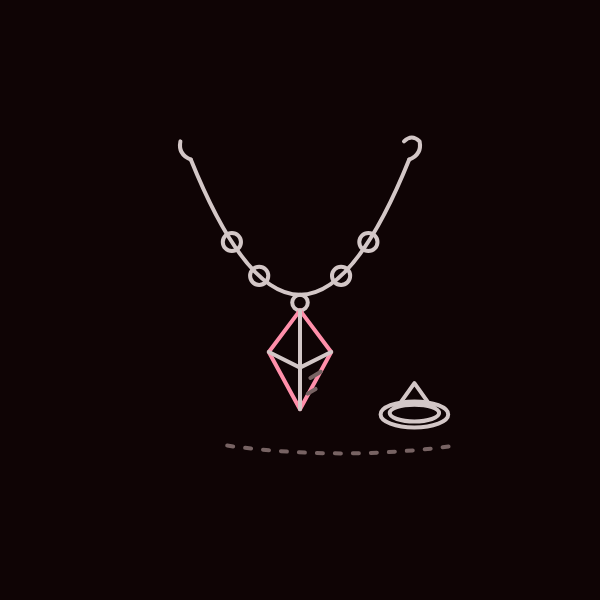
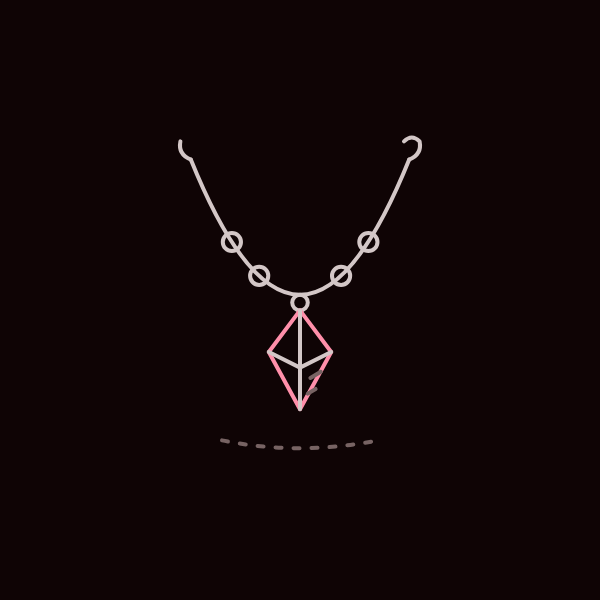
fix(art): move Garlan's stage to the chapter that tells it and add Boros's

Changed region(s): [[0.36, 0.72, 0.66, 0.78], [0.63, 0.63, 0.75, 0.75]]

diff --git a/src/data/series/game-of-thrones/art/court.ts b/src/data/series/game-of-thrones/art/court.ts
@@ -510,8 +510,7 @@ const WILDFIRE_JAR: Stroke[] = [
 
 /**
  * Lollys Stokeworth: a jewelled necklace laid out in its curve, a stone set
- * here and there along the chain and a pendant at its foot, and a ring
- * beside it: the jewels her maid steals from her in Tyrion X (chapter 118),
+ * here and there along the chain and a pendant at its foot: the jewels her maid steals from her in Tyrion X (chapter 118),
  * which opens her household to Shae. The books' alone. The accent is the
  * pendant.
  */
@@ -529,9 +528,7 @@ const JEWELS: Stroke[] = [
   { d: 'M80 104 L68 120 L80 142 L92 120 Z', role: 'accent' },
   { d: 'M68 120 L80 126 L92 120 M80 104 V126 V142', role: 'soft' },
   { d: 'M84 130 l4 -2.4 M83 136 l3 -1.8', role: 'ambient' },
-  { d: `${ellipse(124, 144, 13, 5)} ${ellipse(124, 143.5, 9.5, 3.2)}` },
-  { d: 'M119 139 L124 132 L129 139', role: 'soft' },
-  shadow(96, 156, 44),
+  shadow(80, 154, 30),
 ]
 
 /**
@@ -995,14 +992,14 @@ export const courtRedrawn: Redrawings = {
     },
   ],
   'garlan-tyrell': [
-    // Renly's antlered helm with the rose shield set by it: Garlan rode into
-    // the battle in Renly's armour, the ghost that turned Renly's old
-    // bannermen from Stannis, as Tyrion XV of A Clash of Kings (chapter 141)
-    // tells. The books' alone;
-    // episode 20, his record's, orders it.
+    // Renly's antlered helm with the rose shield set by it: Loras tells Jaime
+    // that Garlan wore Renly's armour on the Blackwater, the ghost the
+    // smallfolk tell of, in Jaime VIII of A Storm of Swords (chapter 211). The
+    // books' alone; episode 36, Tyrion's trial, the nearest point the show
+    // reaches, orders it.
     {
-      episode: 20,
-      chapter: 141,
+      episode: 36,
+      chapter: 211,
       value: [
         ...moved(ANTLERED_HELM, 'translate(-22 0)'),
         ...moved(
@@ -1012,5 +1009,29 @@ export const courtRedrawn: Redrawings = {
         shadow(80, 156, 60),
       ],
     },
+  ],
+  'boros-blount': [
+    // His cloak brooch dropped on the ground by his sword, the white cloak
+    // gone: Joffrey strips him of it for yielding Tommen on the Rosby road,
+    // in Tyrion XI of A Clash of Kings (chapter 123). The books' alone; the
+    // show never strips him, so episode 19, his record's, orders it.
+    {
+      episode: 19,
+      chapter: 123,
+      source: 'chapter',
+      value: [
+        { d: ellipse(80, 112, 20, 8) },
+        { d: 'M60 112 V116 Q62 124 80 125 Q98 124 100 116 V112', role: 'soft' },
+        { d: ellipse(80, 112, 8, 3), role: 'accent' },
+        { d: 'M92 119 l4 -2 M84 121 l4 -2', role: 'ambient' },
+        ...LYING_SWORD,
+        shadow(80, 154, 62),
+      ],
+    },
+    // The white cloak on his shoulder again: Tywin gives him back his place
+    // in the Kingsguard, in the Hound's, in Tyrion II of A Storm of Swords
+    // (chapter 156). The books' alone; episode 21, the show's first after
+    // the battle, orders it.
+    { episode: 21, chapter: 156, source: 'chapter', value: SHOULDER_CLOAK },
   ],
 }

diff --git a/src/data/series/game-of-thrones/records/season-2.ts b/src/data/series/game-of-thrones/records/season-2.ts
@@ -1230,9 +1230,9 @@ export const season2: ThronesSaga = {
         it: 'Tyrion Lannister va da lei al bordello per coprire le sue visite a Shae. La regina la fa prendere, credendola la sua amante.',
         en: 'Tyrion Lannister visits her at the brothel to cover his visits to Shae. The queen has her seized, taking her for his lover.',
       },
-      // Tywin has her flogged and sent away while Tyrion recovers from the
-      // battle; whether A Clash of Kings tells it is unconfirmed, so her
-      // release waits for the next stage.
+      // Tywin has her whipped and thrown out of the Red Keep, as Bronn tells
+      // Tyrion in Tyrion I of A Storm of Swords (site chapter 148); her
+      // release is left to a status issue of a later stage.
       status: [
         { episode: 18, chapter: 128, source: 'chapter', value: 'captured' },
       ],
@@ -1248,8 +1248,8 @@ export const season2: ThronesSaga = {
     'garlan-tyrell': {
       role: { it: 'Cavaliere di Casa Tyrell', en: 'Knight of House Tyrell' },
       log: {
-        it: 'Entra nella battaglia delle Acque Nere con l’armatura di Renly Baratheon. A corte, dopo la vittoria, chiede al re di sposare sua sorella Margaery.',
-        en: 'He rides into the battle on the Blackwater wearing Renly Baratheon’s armour. At court, after the victory, he asks the king to marry his sister Margaery.',
+        it: 'A corte, dopo la vittoria sulle Acque Nere, chiede al re di sposare sua sorella Margaery.',
+        en: 'At court, after the victory on the Blackwater, he asks the king to marry his sister Margaery.',
       },
       status: [
         { episode: 20, chapter: 139, source: 'chapter', value: 'alive' },

diff --git a/src/server/archive/thronesSeason2.test.ts b/src/server/archive/thronesSeason2.test.ts
@@ -179,7 +179,7 @@ const STAGES: {
   stage?: number
 }[] = [
   { id: 'jacelyn-bywater', episode: 20, chapter: 148, source: 'chapter' },
-  { id: 'garlan-tyrell', episode: 20, chapter: 141, source: 'chapter' },
+  { id: 'garlan-tyrell', episode: 36, chapter: 211, source: 'chapter' },
   { id: 'osmund-kettleblack', episode: 35, chapter: 212, source: 'chapter' },
 ]
 
@@ -374,6 +374,19 @@ describe.each(
     })
   },
 )
+
+describe('Garlan Tyrell’s armour', () => {
+  it('stays out of his page before the book that tells it', () => {
+    // Loras tells Jaime who wore Renly's armour at chapter 211 (#1470); the
+    // page names the armour nowhere before it.
+    const page = JSON.stringify(
+      characterPage('garlan-tyrell', reader('chapter', 210)) ?? null,
+    )
+
+    expect(page).toContain('Garlan')
+    expect(page).not.toMatch(/Renly.s armour/u)
+  })
+})
 
 describe('the stages one medium alone tells', () => {
   it.each(STAGES.filter(({ source }) => source !== undefined))(

diff --git a/src/server/archive/thronesSeason1.test.ts b/src/server/archive/thronesSeason1.test.ts
@@ -1555,6 +1555,16 @@ const STAGES: {
     stage: 1,
   },
   { id: 'robar-royce', episode: 15, chapter: 110, source: 'chapter' },
+  // Boros Blount's white cloak taken and given back, the books' alone
+  // (#1470).
+  { id: 'boros-blount', episode: 19, chapter: 123, source: 'chapter' },
+  {
+    id: 'boros-blount',
+    episode: 21,
+    chapter: 156,
+    source: 'chapter',
+    stage: 1,
+  },
   // The southern characters redrawn from the drawing audit (#1287).
   { id: 'ros', episode: 20, chapter: 143, source: 'episode' },
   { id: 'ros', episode: 26, chapter: 175, source: 'episode', stage: 1 },

diff --git a/docs/content-provenance/game-of-thrones-season-2-characters.md b/docs/content-provenance/game-of-thrones-season-2-characters.md
@@ -40,15 +40,15 @@ records stepped.
 Gates as episode / site chapter. `source` records give the other number only to
 order them.
 
-| Record               | Show                                                                                                                    | Books                                                                                                                                                                             |
-| -------------------- | ----------------------------------------------------------------------------------------------------------------------- | --------------------------------------------------------------------------------------------------------------------------------------------------------------------------------- |
-| `daisy` (show only)  | 11, "The North Remembers": Ros shows her the brothel, "We do things differently here, Daisy" (quoted on the Daisy page) | none: "no character of this name"; 77 orders her                                                                                                                                  |
-| `jacelyn-bywater`    | none: the show gives the City Watch to Bronn (Bronn page); 12 orders him                                                | 82, Tyrion II: Tyrion names him commander of the City Watch when he sends Janos Slynt to the Wall (Ice and Fire Wiki; "The Night Lands" puts the dismissal in Tyrion II)          |
-| `hallyne`            | none: "The Ghost of Harrenhal" and "Blackwater" name him only in narration and the credits; 15 orders him               | 94, Tyrion V: Tyrion inspects the guild's wildfire with him ("The Ghost of Harrenhal", "In the books"; Hallyne page, ACOK 20)                                                     |
-| `lollys-stokeworth`  | none in the stage; 13 orders her                                                                                        | 118, Tyrion X: Varys proposes Shae for her household, after her maid is caught stealing ("What Is Dead May Never Die", "In the books"; Ice and Fire Wiki, Tanda Stokeworth)       |
-| `osmund-kettleblack` | none: an unnamed Kingsguard of seasons 5 and 8; 18 orders him                                                           | 123, Tyrion XI: the queen names him and Balon Swann to the Kingsguard (Balon Swann page, ACOK 49; Ice and Fire Wiki, Tanda Stokeworth); safe later pin                            |
-| `alayaya`            | none: the show gives her scenes to Ros; 18 orders her                                                                   | 128, Tyrion XII: the queen holds her captive, taking her for Tyrion's lover ("The Prince of Winterfell", "In the books"; Ice and Fire Wiki); safe later pin                       |
-| `garlan-tyrell`      | none: no appearance; 20 orders him                                                                                      | 139, Sansa VIII: at the court of rewards he is the knight in Renly's armour and asks the king to wed Margaery ("Valar Morghulis", "In the books"; Garlan page; Ice and Fire Wiki) |
+| Record               | Show                                                                                                                    | Books                                                                                                                                                                                                                        |
+| -------------------- | ----------------------------------------------------------------------------------------------------------------------- | ---------------------------------------------------------------------------------------------------------------------------------------------------------------------------------------------------------------------------- |
+| `daisy` (show only)  | 11, "The North Remembers": Ros shows her the brothel, "We do things differently here, Daisy" (quoted on the Daisy page) | none: "no character of this name"; 77 orders her                                                                                                                                                                             |
+| `jacelyn-bywater`    | none: the show gives the City Watch to Bronn (Bronn page); 12 orders him                                                | 82, Tyrion II: Tyrion names him commander of the City Watch when he sends Janos Slynt to the Wall (Ice and Fire Wiki; "The Night Lands" puts the dismissal in Tyrion II)                                                     |
+| `hallyne`            | none: "The Ghost of Harrenhal" and "Blackwater" name him only in narration and the credits; 15 orders him               | 94, Tyrion V: Tyrion inspects the guild's wildfire with him ("The Ghost of Harrenhal", "In the books"; Hallyne page, ACOK 20)                                                                                                |
+| `lollys-stokeworth`  | none in the stage; 13 orders her                                                                                        | 118, Tyrion X: Varys proposes Shae for her household, after her maid is caught stealing ("What Is Dead May Never Die", "In the books"; Ice and Fire Wiki, Tanda Stokeworth)                                                  |
+| `osmund-kettleblack` | none: an unnamed Kingsguard of seasons 5 and 8; 18 orders him                                                           | 123, Tyrion XI: the queen names him and Balon Swann to the Kingsguard (Balon Swann page, ACOK 49; Ice and Fire Wiki, Tanda Stokeworth); safe later pin                                                                       |
+| `alayaya`            | none: the show gives her scenes to Ros; 18 orders her                                                                   | 128, Tyrion XII: the queen holds her captive, taking her for Tyrion's lover ("The Prince of Winterfell", "In the books"; Ice and Fire Wiki); safe later pin                                                                  |
+| `garlan-tyrell`      | none: no appearance; 20 orders him                                                                                      | 139, Sansa VIII: at the court of rewards he asks the king to wed Margaery; that he wore Renly's armour is told only at 211, A Storm of Swords Jaime VIII ("Valar Morghulis", "In the books"; Garlan page; Ice and Fire Wiki) |
 
 - Daisy: role prostitute, Littlefinger's brothel, alive. Italian "Daisy"
   (Italian Wikipedia's TV cast list).
@@ -67,11 +67,15 @@ order them.
 - Osmund Kettleblack: role knight of the Kingsguard, alive. Earlier chapters
   where the Kettleblacks enter the queen's service are to check. Italian "Osmund
   Kettleblack".
-- Alayaya: role prostitute, Chataya's brothel, `captured` from her gate. Her
-  flogging and release (told while Tyrion recovers) are not filed: the chapter
-  is unconfirmed. Earlier Tyrion chapters at Chataya's are to check. Italian
-  "Alayaya" (Italian Wikipedia, Chataya).
-- Garlan Tyrell: role knight of House Tyrell, alive. Italian "Garlan Tyrell"
+- Alayaya: role prostitute, Chataya's brothel, `captured` from her gate. Tywin
+  has her whipped and thrown out, told by Bronn in Tyrion I of _A Storm of
+  Swords_ (148, A Wiki of Ice and Fire); her release is left to a status issue.
+  Earlier Tyrion chapters at Chataya's are to check. Italian "Alayaya" (Italian
+  Wikipedia, Chataya).
+- Garlan Tyrell: role knight of House Tyrell, alive. That he rode as Renly's
+  ghost in Renly's armour is told only when Loras tells Jaime, in Jaime VIII of
+  _A Storm of Swords_ (211, A Wiki of Ice and Fire, Renly's ghost page); #1470
+  cuts it from his log and draws it as a stage there. Italian "Garlan Tyrell"
   (Italian Wikipedia, Casa Tyrell).
 
 ### Stage-1 records stepped
@@ -109,8 +113,10 @@ Steps in `season-1.ts`, as episode / site chapter.
 Not stepped: Podrick Payne (show gate 19 since #1457; saving Tyrion changes no
 field), Cersei, Joffrey, Tommen, Varys, Tywin (already Hand), Meryn Trant, Ilyn
 Payne, Mandon Moore (death filed by #1457), Dontos Hollard (fool step by #1457).
-Boros Blount's dismissal from the Kingsguard and his return, in the books, wait
-for a check of their chapters.
+Boros Blount's dismissal from the Kingsguard (Tyrion XI, 123) and his return
+(Tyrion II of _A Storm of Swords_, 156), in the books, are drawn as stages of
+his drawing by #1470 (A Wiki of Ice and Fire, Boros Blount page); his role and
+affiliation steps still wait.
 
 ### Omitted
 

diff --git a/docs/architecture.md b/docs/architecture.md
@@ -551,9 +551,9 @@ epithet, bounty and the like) are counted only as part of the timelines row.
 | Characters        | 213                                                     |
 | Places            | 60                                                      |
 | Saga modules      | 2                                                       |
-| Line drawings     | 273, one per record, plus 156 redrawings of 116 records |
+| Line drawings     | 273, one per record, plus 158 redrawings of 117 records |
 | Chronicle stories | 565, for 144 characters                                 |
-| Dated timelines   | 879                                                     |
+| Dated timelines   | 880                                                     |
 | Affiliation steps | 243                                                     |
 | Status steps      | 359                                                     |
 
